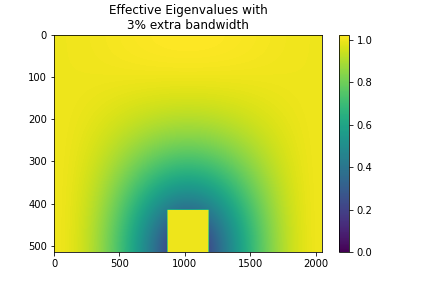
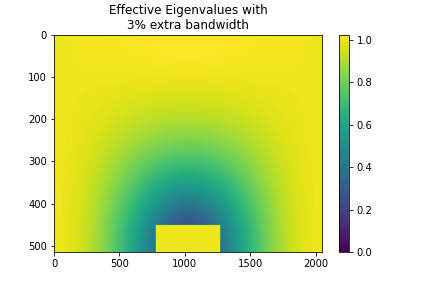
testing inv recon code

Changed region(s): [[0.3611, 0.7188, 0.4815, 0.875], [0.4815, 0.7812, 0.5116, 0.875]]

diff --git a/little_scripts_testing/test_mse_pfbinv_nchan2.py b/little_scripts_testing/test_mse_pfbinv_nchan2.py
@@ -1,0 +1,39 @@
+import sys, os
+sys.path.append("..")
+import helper as h
+from constants import SINC
+import numpy as np
+import matplotlib.pyplot as plt
+
+eigengrid = h.r_window_to_matrix_eig(SINC,ntap=2,lblock=4096) # h.window_pad_to_box_rfft(SINC,pad_factor=10.0)
+eigengrid_hann = h.r_window_to_matrix_eig(SINC * np.hanning(len(SINC)),ntap=2,lblock=4096)
+eigengrid_hamm = h.r_window_to_matrix_eig(SINC * np.hamming(len(SINC)),ntap=2,lblock=4096)
+
+plt.imshow(abs(eigengrid),aspect="auto")
+plt.show(block=True)
+
+plt.subplots(figsize=(10,5))
+plt.subplot(121)
+plt.semilogy(np.mean(1/abs(eigengrid**2),axis=1),".",label="SINC")
+plt.semilogy(np.mean(1/abs(eigengrid_hann**2),axis=1),".",alpha=0.4,label="sinc hanning")
+plt.semilogy(np.mean(1/abs(eigengrid_hamm**2),axis=1),".",alpha=0.4,label="sinc hamming")
+plt.title("All terms Log Scale")
+plt.ylabel("Log R[n]")
+plt.xlabel("n")
+plt.grid(which="both")
+plt.legend()
+
+plt.subplot(122)
+plt.plot(np.mean(1/abs(eigengrid[:1000]**2),axis=1),".",label="sinc")
+plt.plot(np.mean(1/abs(eigengrid_hann[:1000]**2),axis=1),".",alpha=0.4,label="sinc hanning")
+plt.plot(np.mean(1/abs(eigengrid_hamm[:1000]**2),axis=1),".",alpha=0.4,label="sinc hamming")
+plt.title("First few terms")
+plt.ylabel("R[n]")
+plt.xlabel("n")
+plt.legend()
+plt.suptitle("Quantization Error Increase from Inverse PFB\nntap=2 lblock=4096",fontsize=18)
+plt.tight_layout()
+plt.savefig("quantization_error_increase_from_inverse_pfb_ntap2.png")
+plt.show(block=True)
+
+

diff --git a/little_scripts_testing/stats_experiment.py b/little_scripts_testing/stats_experiment.py
@@ -1,0 +1,35 @@
+# depricated see jupyter notebook : stats how does error carry forward
+
+import numpy as np
+from scipy.optimize import curve_fit
+import matplotlib.pyplot as plt
+
+pi = np.pi
+exp = np.exp
+sqrt = np.sqrt
+
+def get_cum_dist_from_unif(n_runs=1000,n_data=10000,delta=1.0):
+    """a random variable x samples uniformly from (-delta/2,delta/2)  
+    What is the distribution of the random variable X = sum(x) over n such instances? I couldn't figure it out so this function is to do some experiments."""
+    big_x = np.random.uniform(low=-delta/2,high=-delta/2, size=(n_runs,n_data))
+    big_x.sum(axis=0)/sqrt(n_runs)
+    return big_x
+
+def plot_hist_from_dist(dist,n_runs,b=50):
+    n,bins,_ = plt.hist(dist,b)
+    plt.show(block=True)
+    bin_means = bins[1:] / 2 + bins[:-1] / 2
+    gauss = lambda x,sigma,amp:a*exp(-((x)/sigma)**2/2) / sqrt(2*pi*sigma**2) # assumes mean is zero, but not necessarily normalized
+    popt,_ = curve_fit(gauss, bin_means, n/n_runs, p0=[1.,1.])
+    sigma,amp = popt
+    print("sigma = {} \namp {}".format(sigma,amp))
+    # plt.show(block=True)
+    x = np.linspace(bin_means[0],bin_means[-1],300)
+    plt.plot(x, n_runs * gauss(x))
+    plt.show(block=True)
+    return 
+
+n_runs,n_data = 10000,10000
+dist = get_cum_dist_from_unif(n_runs,n_data,delta=1.0)
+print("got the dist")
+plot_hist_from_dist(dist,n_runs,b=25)

diff --git a/little_scripts_testing/test_mse_pfbinv_nchan4.py b/little_scripts_testing/test_mse_pfbinv_nchan4.py
@@ -1,0 +1,38 @@
+import sys, os
+sys.path.append("..")
+import helper as h
+from constants import SINC
+import numpy as np
+import matplotlib.pyplot as plt
+
+eigengrid = h.r_window_to_matrix_eig(SINC) # h.window_pad_to_box_rfft(SINC,pad_factor=10.0)
+eigengrid_hann = h.r_window_to_matrix_eig(SINC * np.hanning(len(SINC)))
+eigengrid_hamm = h.r_window_to_matrix_eig(SINC * np.hamming(len(SINC)))
+
+plt.imshow(abs(eigengrid),aspect="auto")
+plt.show(block=True)
+
+plt.subplots(figsize=(10,5))
+plt.subplot(121)
+plt.semilogy(np.mean(1/abs(eigengrid**2),axis=1),".",label="SINC")
+plt.semilogy(np.mean(1/abs(eigengrid_hann**2),axis=1),".",alpha=0.4,label="sinc hanning")
+plt.semilogy(np.mean(1/abs(eigengrid_hamm**2),axis=1),".",alpha=0.4,label="sinc hamming")
+plt.title("All terms Log Scale")
+plt.ylabel("Log R[n]")
+plt.xlabel("n")
+plt.grid(which="both")
+plt.legend()
+
+plt.subplot(122)
+plt.plot(np.mean(1/abs(eigengrid[:1000]**2),axis=1),".",label="sinc")
+plt.plot(np.mean(1/abs(eigengrid_hann[:1000]**2),axis=1),".",alpha=0.4,label="sinc hanning")
+plt.plot(np.mean(1/abs(eigengrid_hamm[:1000]**2),axis=1),".",alpha=0.4,label="sinc hamming")
+plt.title("First few terms")
+plt.ylabel("R[n]")
+plt.xlabel("n")
+plt.legend()
+plt.suptitle("Quantization Error Increase from Inverse PFB\nntap=4 lblock=2048",fontsize=18)
+plt.tight_layout()
+plt.show(block=True)
+
+
